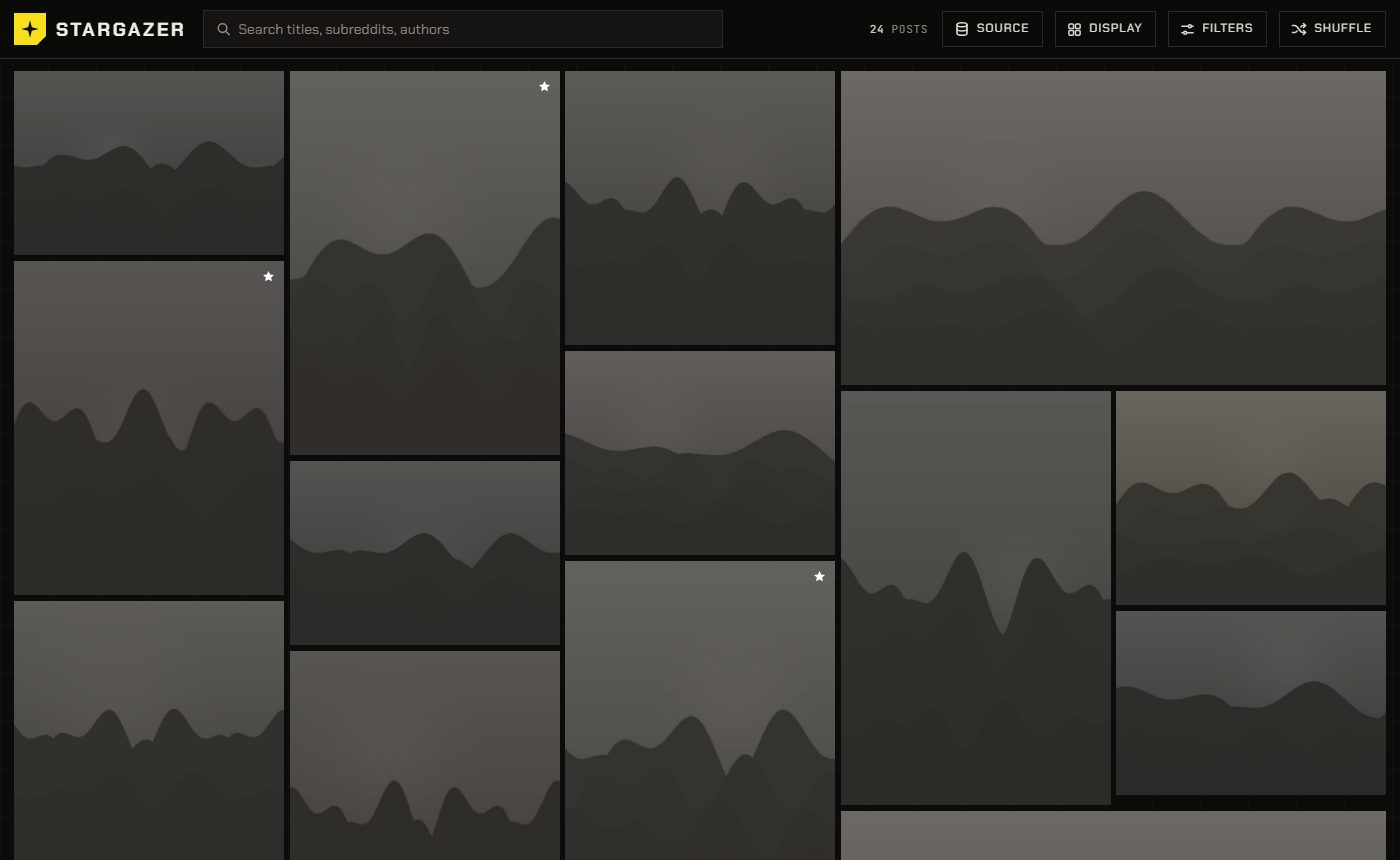
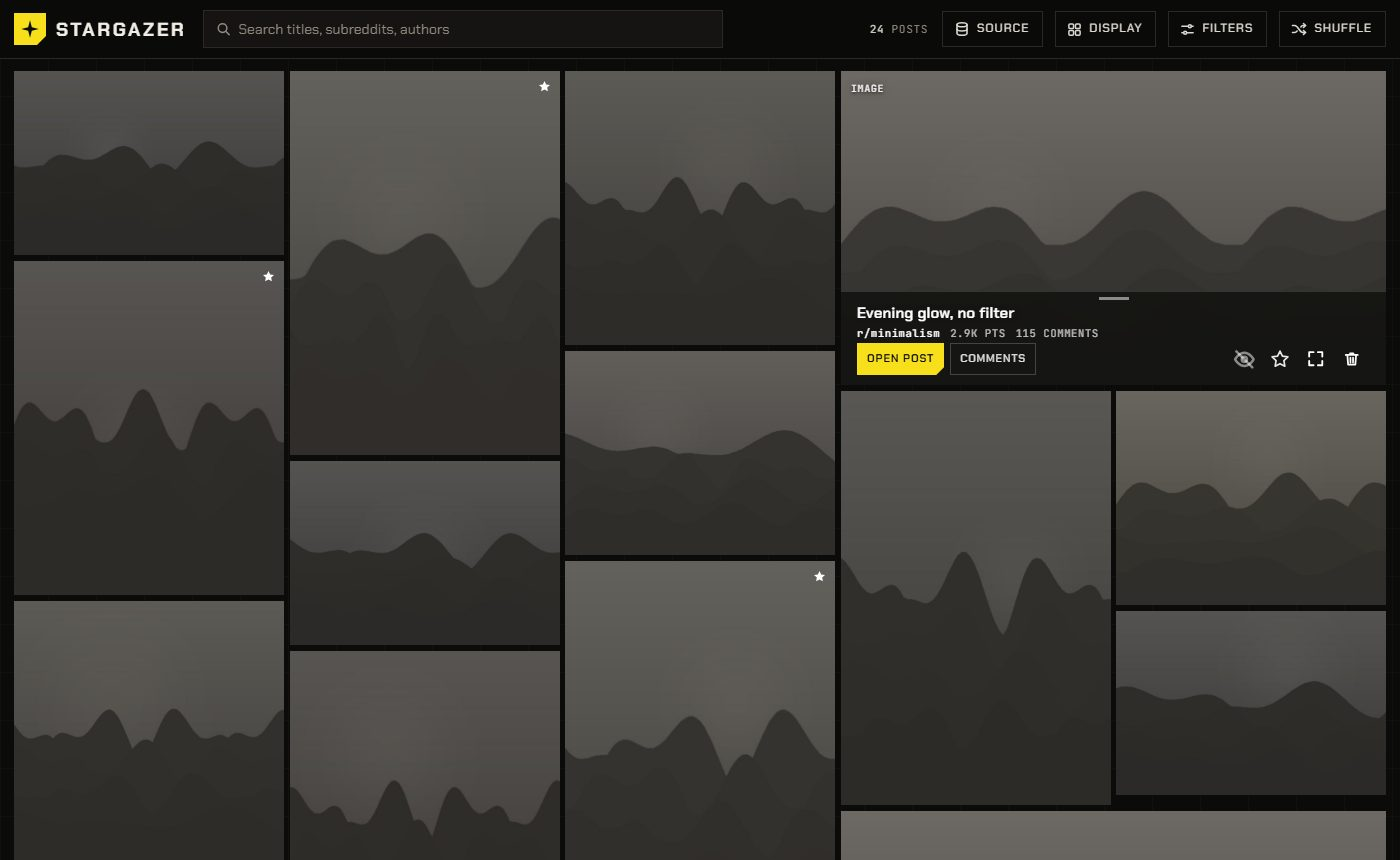
README headline: one card shows its info tray

Changed region(s): [[0.5836, 0.3326, 1.0, 0.4535], [0.6143, 0.0907, 0.645, 0.1209]]

diff --git a/tools/screenshots/shoot.py b/tools/screenshots/shoot.py
@@ -40,7 +40,13 @@ os.makedirs(WORK,exist_ok=True)
 with sync_playwright() as p:
     b=p.chromium.launch()
     # 1 gallery (dark, masonry)
-    pg=session(b,{'width':1400,'height':860},'dark'); settle(pg); pg.evaluate("window.scrollTo(0,0)"); snap(pg,WORK+'/gallery.png')
+    pg=session(b,{'width':1400,'height':860},'dark'); settle(pg); pg.evaluate("window.scrollTo(0,0)")
+    # the headline shows one card with its info tray up: the biggest tile that sits wholly in the first screen
+    pg.evaluate("""()=>{ const vh = innerHeight; let best = null, area = 0;
+        for(const c of document.querySelectorAll('#grid .card')){ const r = c.getBoundingClientRect(); if(r.top < 60 || r.bottom > vh-20) continue; const a = r.width*r.height; if(a > area){ area = a; best = c; } }
+        if(best){ ensureLayer(best); setLayer(best, true); window._shotCard = best; } }""")
+    pg.wait_for_timeout(600); snap(pg,WORK+'/gallery.png')
+    pg.evaluate("()=>{ if(window._shotCard) setLayer(window._shotCard, false); }"); pg.wait_for_timeout(400)
     # 2 filters panel (dark)
     pg.click('#decktoggle'); pg.wait_for_timeout(500); snap(pg,WORK+'/filters.png'); pg.context.close()
     # 3 list 2 columns (light)
